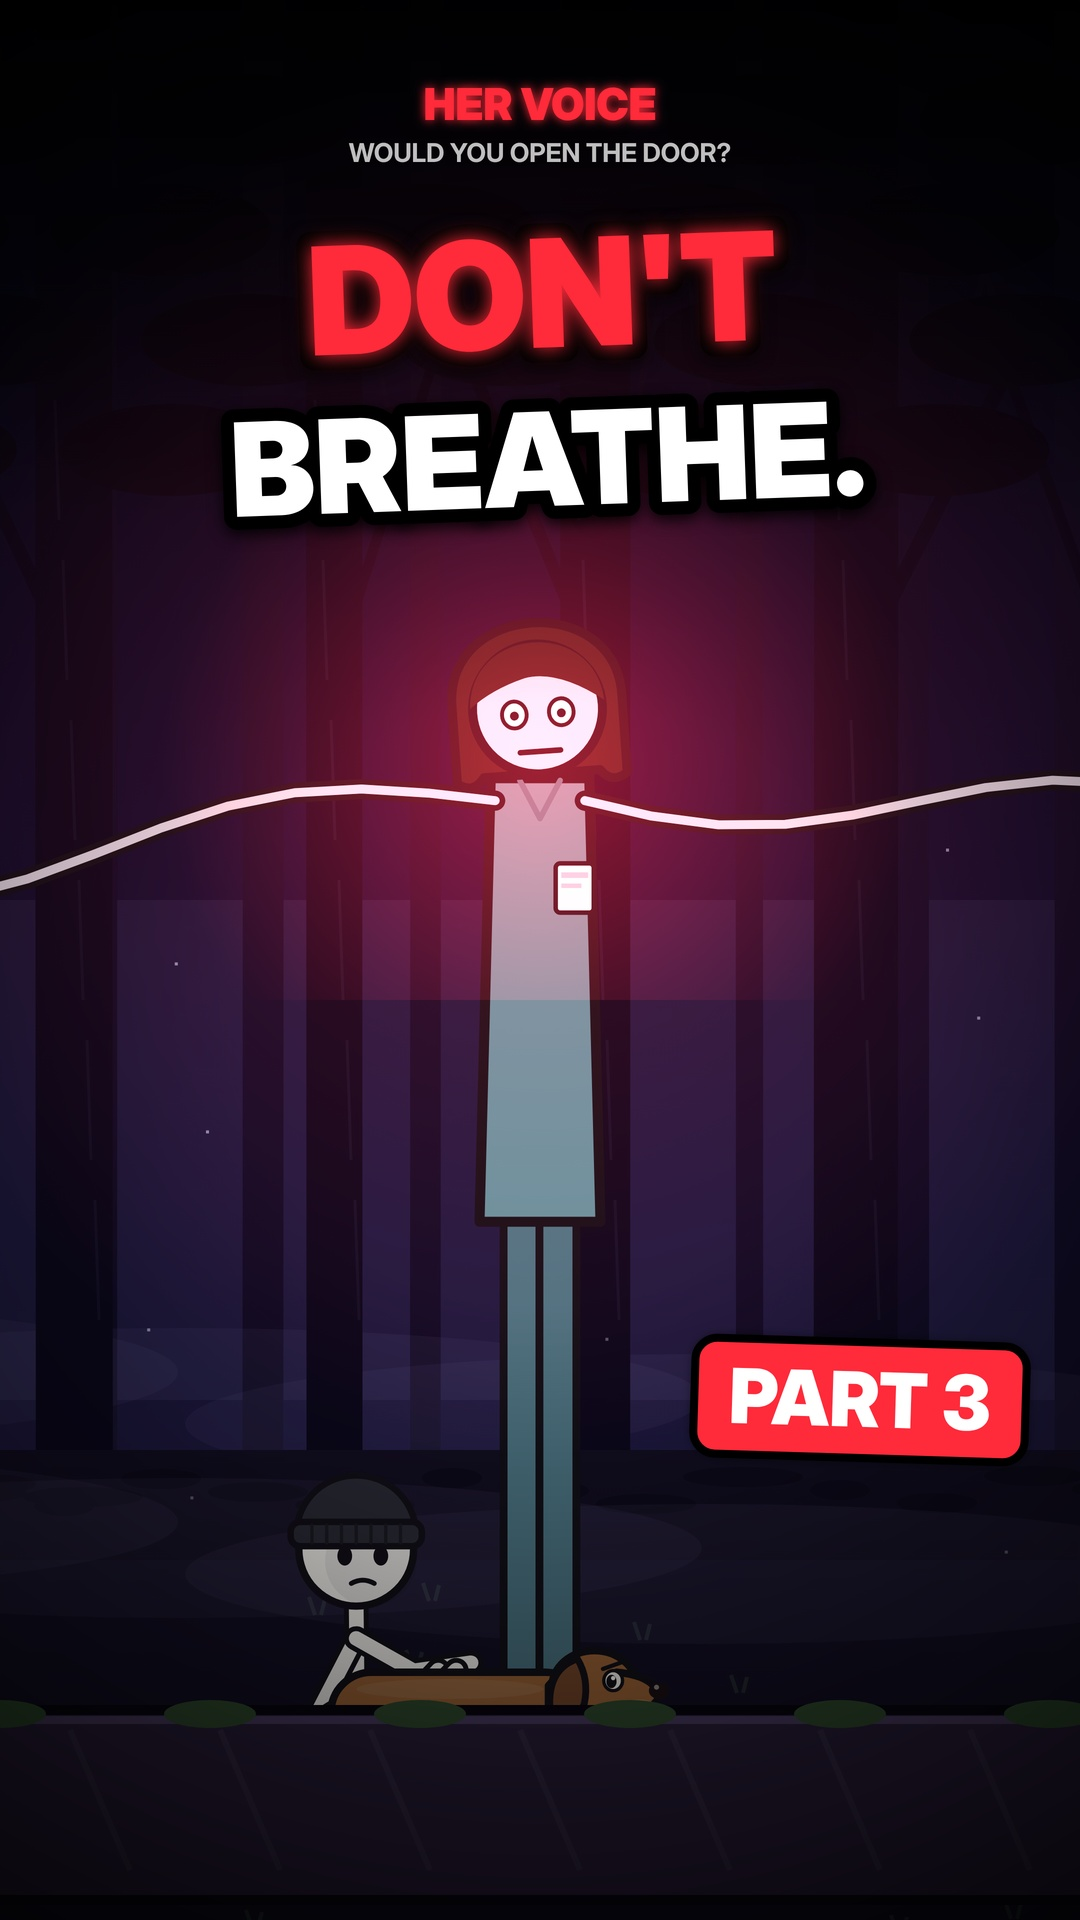
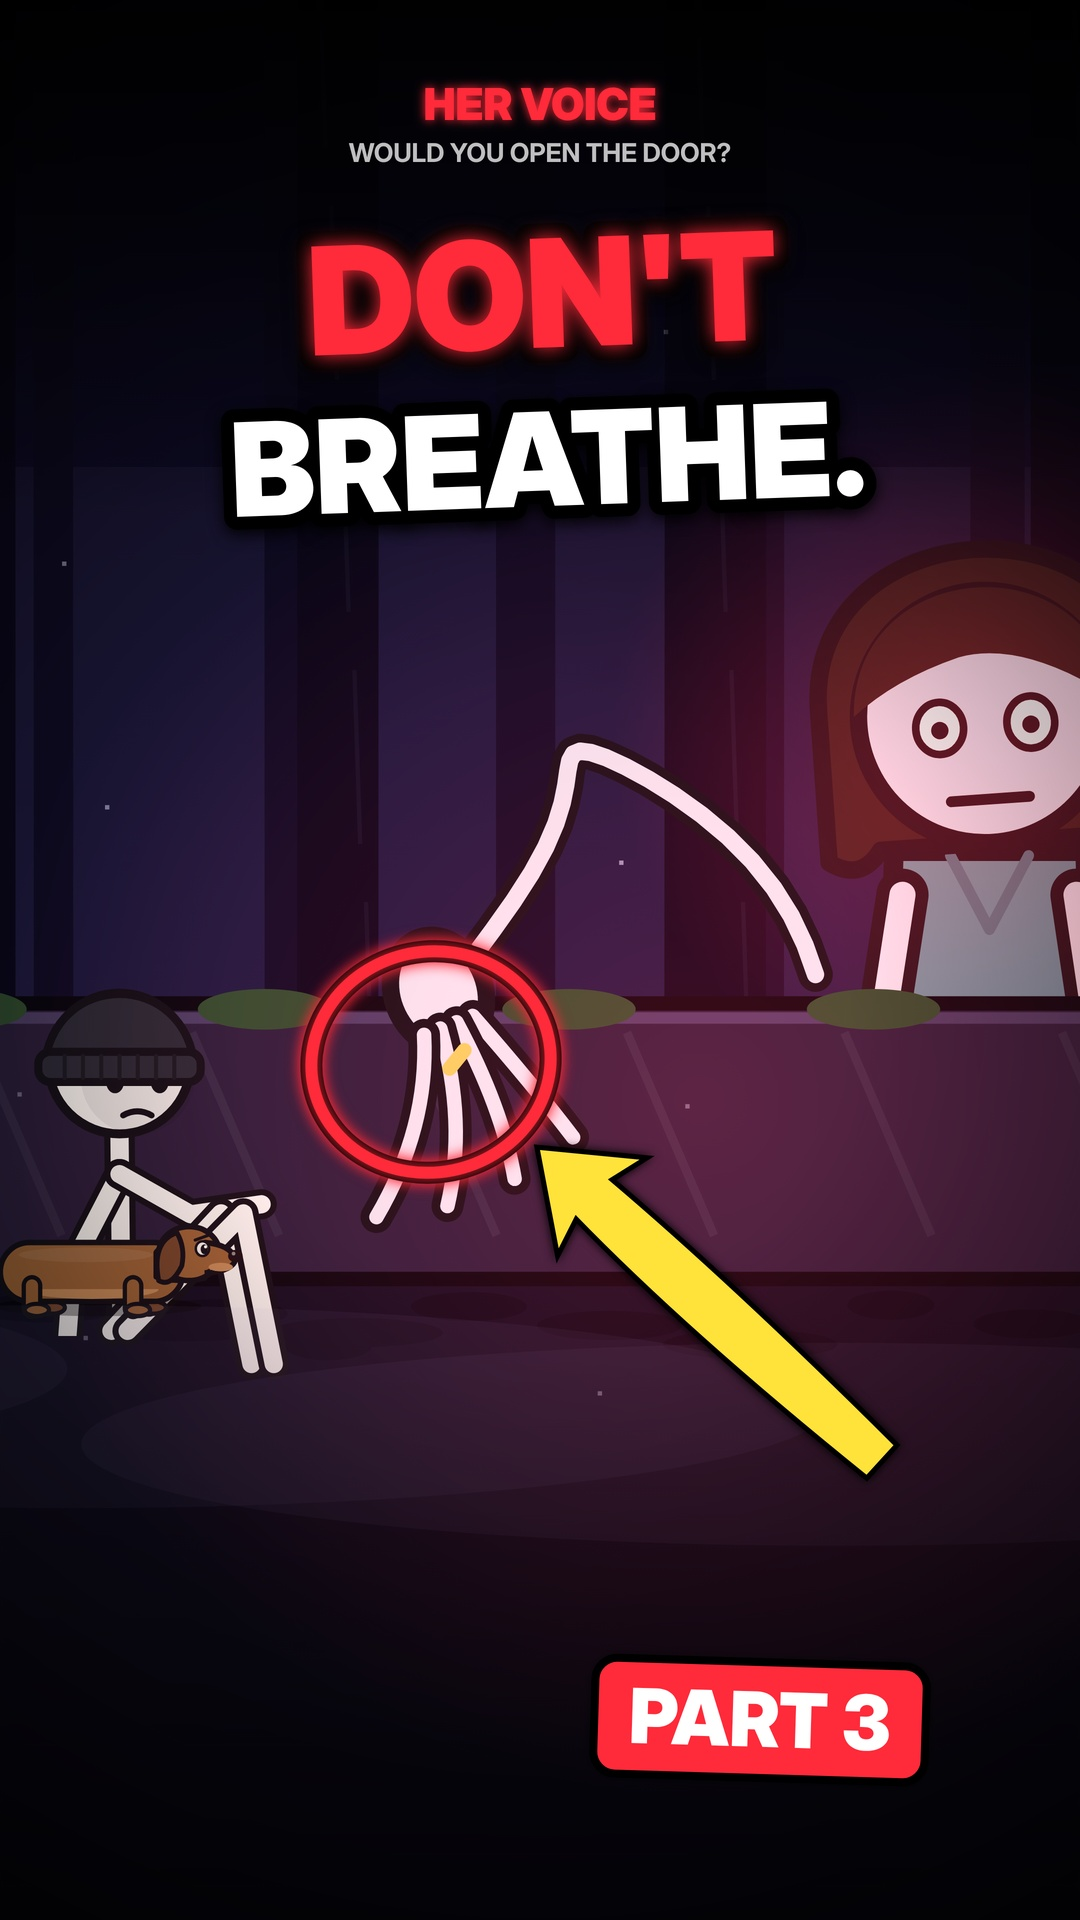
Clearer Part 3 thumbnail: hiding behind the log, her fingers above
Claude-Session: https://claude.ai/code/session_013waGN2ARspf4yShZssZUe5

diff --git a/youtube/horror/it-knows-her-voice/web/thumbs.html b/youtube/horror/it-knows-her-voice/web/thumbs.html
@@ -276,12 +276,17 @@ const THUMBS = {
     hale(540 - 300 * 1.25, 1560 - 975 * 1.25, 1.25, { arm: 'wave', wave: 0.3, smile: 'wide', t: T }); dog(250, 1800, 1.05, { pose: 'crouch', growl: 1, ears: 'down', look: 1, flip: false });
     g.restore(); grade(540, 900, '255,150,60', 0.15);
     hook([['SHE DIED', '#ff2a3a', 130], ['3 YEARS AGO...', '#ffffff', 96]], 230); ring(552, 985, 140); arrow(1010, 760, 730, 930); logo(); badge(2, 810, 1720); },
-  3() { T = 0.6; g.save(); cam(1.0, 540, 960); sky(); forest(300); ground(1560); fog(1500);
-    mom(540 - 300 * 1.12, 1700 - 975 * 1.12, 1.12, { tall: 1.9, reach: 1, face: 'blank' });
-    add(() => { const rg = g.createRadialGradient(540, 760, 10, 540, 760, 380); rg.addColorStop(0, 'rgba(255,30,50,0.35)'); rg.addColorStop(1, 'rgba(255,30,50,0)'); g.fillStyle = rg; g.fillRect(0, 100, 1080, 900); });
-    heroCrouch(110, 1010, 0.82, { expr: 'scared', tremble: 1 }); dog(470, 1760, 0.85, { pose: 'crouch', shake: 1, ears: 'down', look: -1 }); fallenTree(-160, 1900, 1500);
-    g.restore(); grade(540, 760, '255,30,50', 0.2);
-    hook([["DON'T", '#ff2a3a', 150], ['BREATHE.', '#ffffff', 130]], 220); logo(); badge(3, 860, 1400); },
+  3() { T = 0.8; const u = 1.0; g.save(); cam(1.45, 510, 1240); forest(2600, { branches: false });
+    g.save(); g.beginPath(); g.rect(-400, -400, 2000, 1700); g.clip(); mom(820 - 300 * 1.5, 1060 - 125 * 1.5, 1.5, { tall: 1.8, reach: 0, face: 'blank' }); g.restore();
+    add(() => { const rg = g.createRadialGradient(820, 1080, 10, 820, 1080, 260); rg.addColorStop(0, 'rgba(255,30,50,0.3)'); rg.addColorStop(1, 'rgba(255,30,50,0)'); g.fillStyle = rg; g.fillRect(400, 700, 900, 800); });
+    fallenTree(-260, 1460, 1600);
+    heroCrouch(10, 1530 - 975 * 0.7, 0.7, { expr: 'scared', tremble: 0, look: 0.8, lookY: -0.8 }); dog(205, 1478, 0.42, { pose: 'crouch', shake: 0, t: u, ears: 'down', worried: true });
+    const x = 440; { const ax = 700, ay = 1250, bx = x + 6, by = 1262, pts = [];
+      for (let i = 0; i <= 24; i++) { const k = i / 24, bend = Math.sin(Math.PI * k); pts.push([ax + (bx - ax) * k + Math.sin(k * 6 + u * 2.2) * 40 * bend, ay + (by - ay) * k - 160 * bend]); }
+      g.lineCap = 'round'; g.lineJoin = 'round'; for (const [w, c] of [[24, '#121018'], [12, '#e0dce6']]) { g.strokeStyle = c; g.lineWidth = w; g.beginPath(); pts.forEach(([px, py], i) => (i ? g.lineTo(px, py) : g.moveTo(px, py))); g.stroke(); } }
+    g.save(); g.translate(x, 1262); g.rotate(1.2); g.scale(2.0, 2.0); hand(g, 0, 0, 1, 1, u); g.restore(); fog(1500); g.restore();
+    grade(700, 1100, '255,30,50', 0.2);
+    hook([["DON'T", '#ff2a3a', 150], ['BREATHE.', '#ffffff', 130]], 220); ring(431, 1062, 120); arrow(880, 1460, 540, 1150); logo(); badge(3, 760, 1720); },
   4() { T = 1.0; g.save(); sky(); forest(6600, { branches: false }); road(1580); fog(1530);
     mom(-190, 1580 - 975 * 1.05, 1.05, { tall: 1.85, reach: 0.75, face: 'blank', run: 0.9 });
     add(() => { const rg = g.createRadialGradient(753, 1266, 10, 753, 1266, 330); rg.addColorStop(0, 'rgba(255,60,70,0.35)'); rg.addColorStop(1, 'rgba(255,60,70,0)'); g.fillStyle = rg; g.fillRect(300, 800, 800, 800); });
